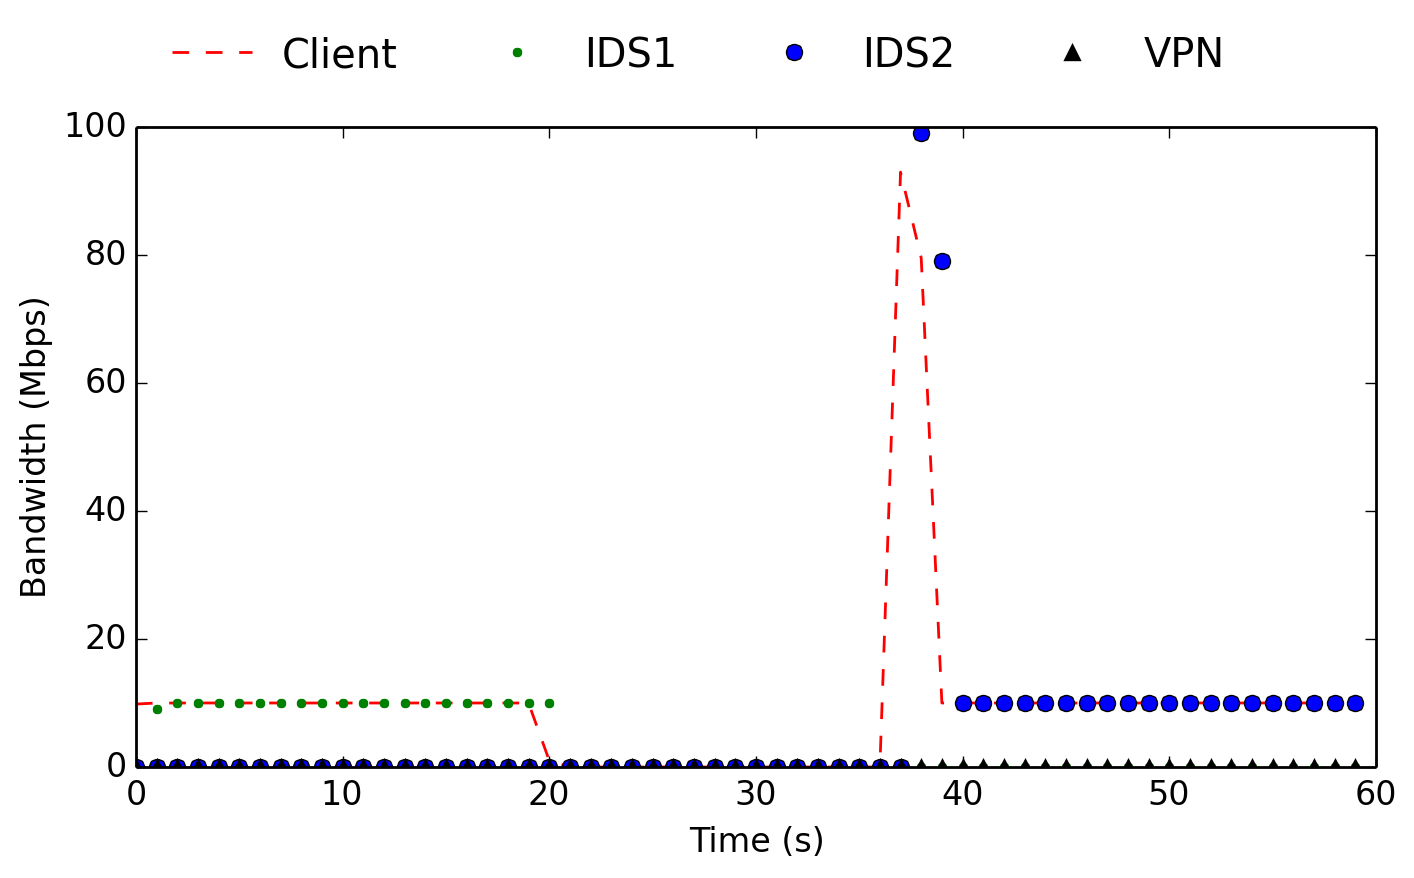
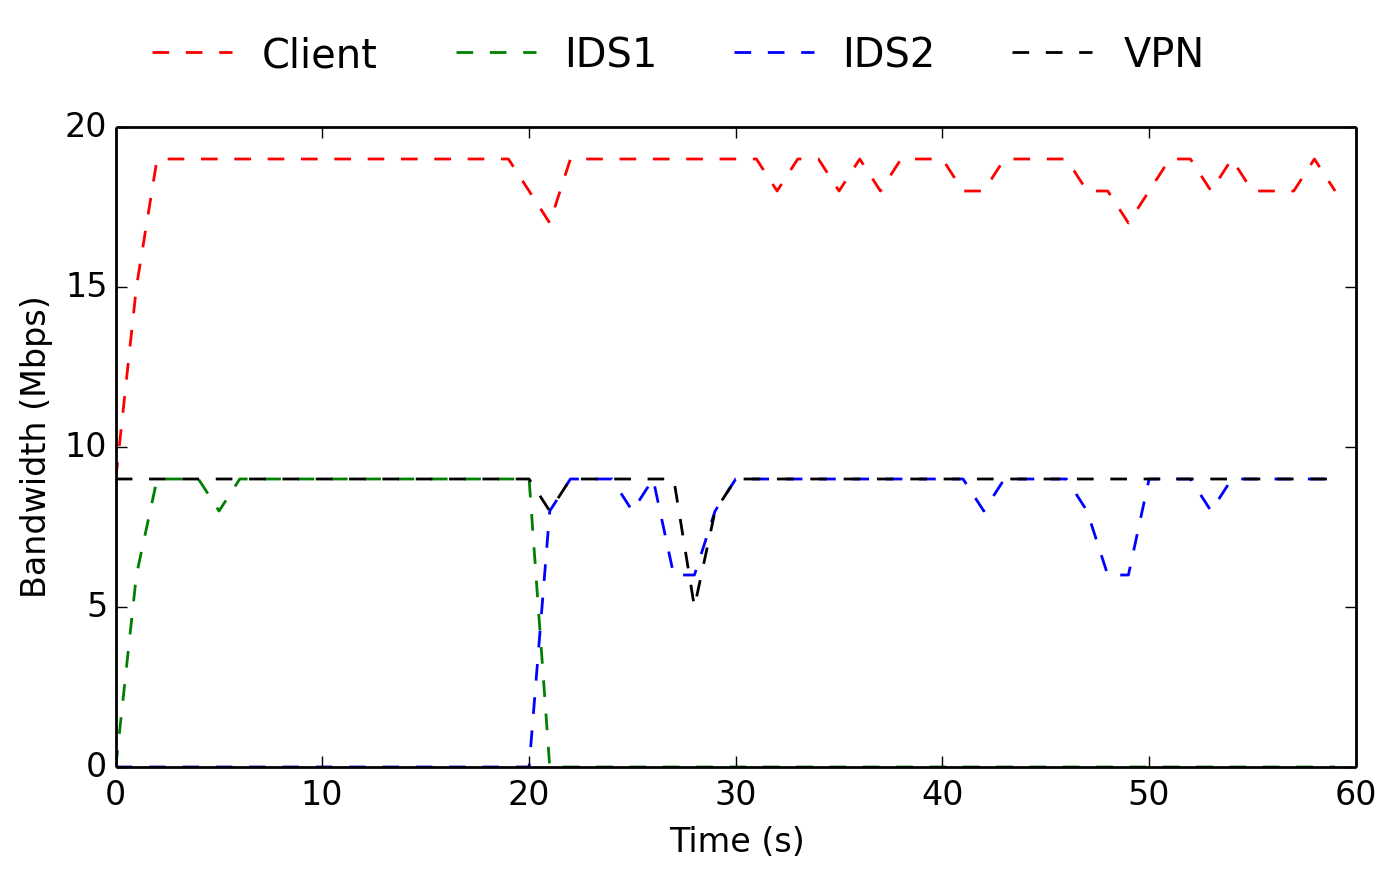
changed client data source from json to csv and updated the figure

diff --git a/scenarios/upgrade/plot.py b/scenarios/upgrade/plot.py
@@ -20,7 +20,7 @@ def extract_iperf(fname):
     return bw
 
 
-def extract_dstat(fname):
+def extract_dstat(fname, pos):
     """ Extracts and returns bandwidth value from CSV file. """
     bw = []
     # open the csv file with Python CSV parser, walk through each line (row) and
@@ -29,7 +29,12 @@ def extract_dstat(fname):
     with open(fname) as data_file:
         reader = csv.DictReader(data_file)
         for row in reader:
-            val = row['Dstat 0.7.3 CSV output']
+            #print(row)
+            if pos == 1:
+                val = row['Dstat 0.7.3 CSV output']
+            else:
+                val = row[None][0]
+            # print(val)
             if val.isdigit():
                 # multiply to 8 to convert byte to bit (dstat reports on bytes)
                 mbps = 8 * int(val) / 1048576 # = (1024 * 1024)
@@ -50,9 +55,9 @@ def plot(x, client_bw, ids1_bw, ids2_bw, vpn_bw, fname):
     plt.xlabel('Time (s)')
     plt.ylabel('Bandwidth (Mbps)')
     client = plt.plot(x, client_bw, 'r--', label='Client')
-    ids1 = plt.plot(x, ids1_bw, 'g.', label='IDS1')
-    ids2 = plt.plot(x, ids2_bw, 'bo', label='IDS2')
-    vpn = plt.plot(x, vpn_bw, 'k^', label='VPN')
+    ids1 = plt.plot(x, ids1_bw, 'g--', label='IDS1')
+    ids2 = plt.plot(x, ids2_bw, 'b--', label='IDS2')
+    vpn = plt.plot(x, vpn_bw, 'k--', label='VPN')
     ax.legend(loc='upper left', bbox_to_anchor=(0, 1.2), numpoints=1, ncol=4,
             frameon=False)
     plt.draw()
@@ -63,16 +68,20 @@ def plot(x, client_bw, ids1_bw, ids2_bw, vpn_bw, fname):
 
 
 if __name__ == '__main__':
-    client_bw = extract_iperf('./results/from-client.json')
+    # for client we monitor TX traffic, which is the value on the 2nd position
+    # of the CSV file.
+    client_bw = extract_dstat('./results/from-client.csv', 2)
     print('client_bw = %s, len = %d' % (client_bw, len(client_bw)))
 
-    ids1_bw = extract_dstat('./results/from-ids1.csv')
+    # for all other VNFs we monitor RX traffic, which is the value on the 1st
+    # position of the CSV file.
+    ids1_bw = extract_dstat('./results/from-ids1.csv', 1)
     print('ids1_bw = %s, len = %d' % (ids1_bw, len(ids1_bw)))
 
-    ids2_bw = extract_dstat('./results/from-ids2.csv')
+    ids2_bw = extract_dstat('./results/from-ids2.csv', 1)
     print('ids2_bw = %s, len = %d' % (ids2_bw, len(ids2_bw)))
 
-    vpn_bw = extract_dstat('./results/from-vpn.csv')
+    vpn_bw = extract_dstat('./results/from-vpn.csv', 1)
     print('vpn_bw = %s, len = %d' % (vpn_bw, len(vpn_bw)))
 
     figure_name = 'results/upgrade.png'
